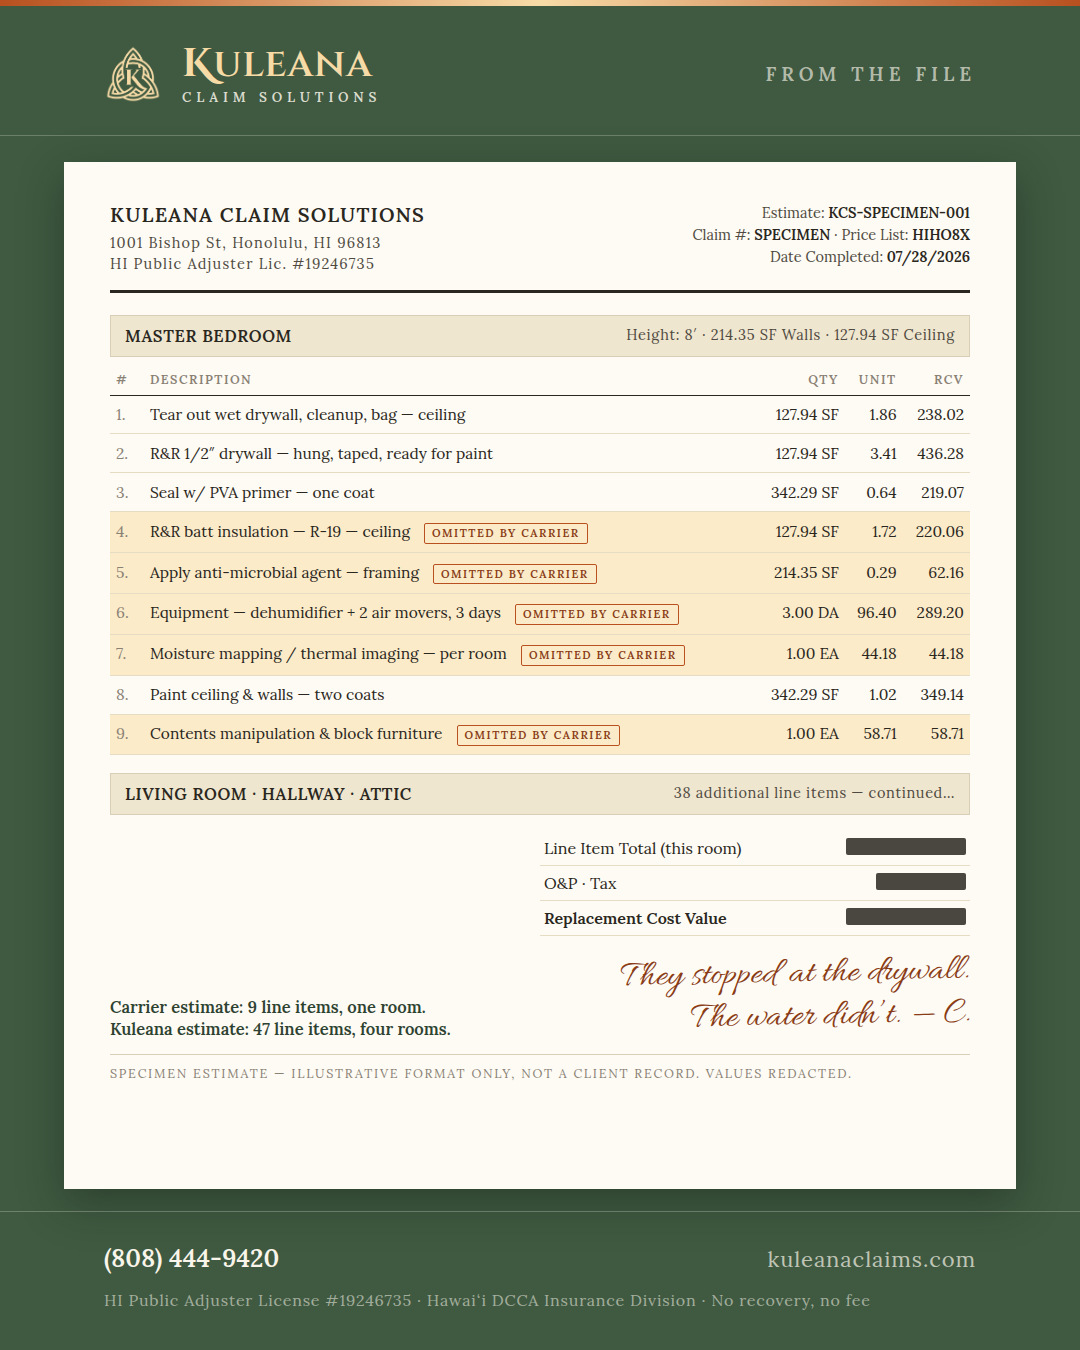
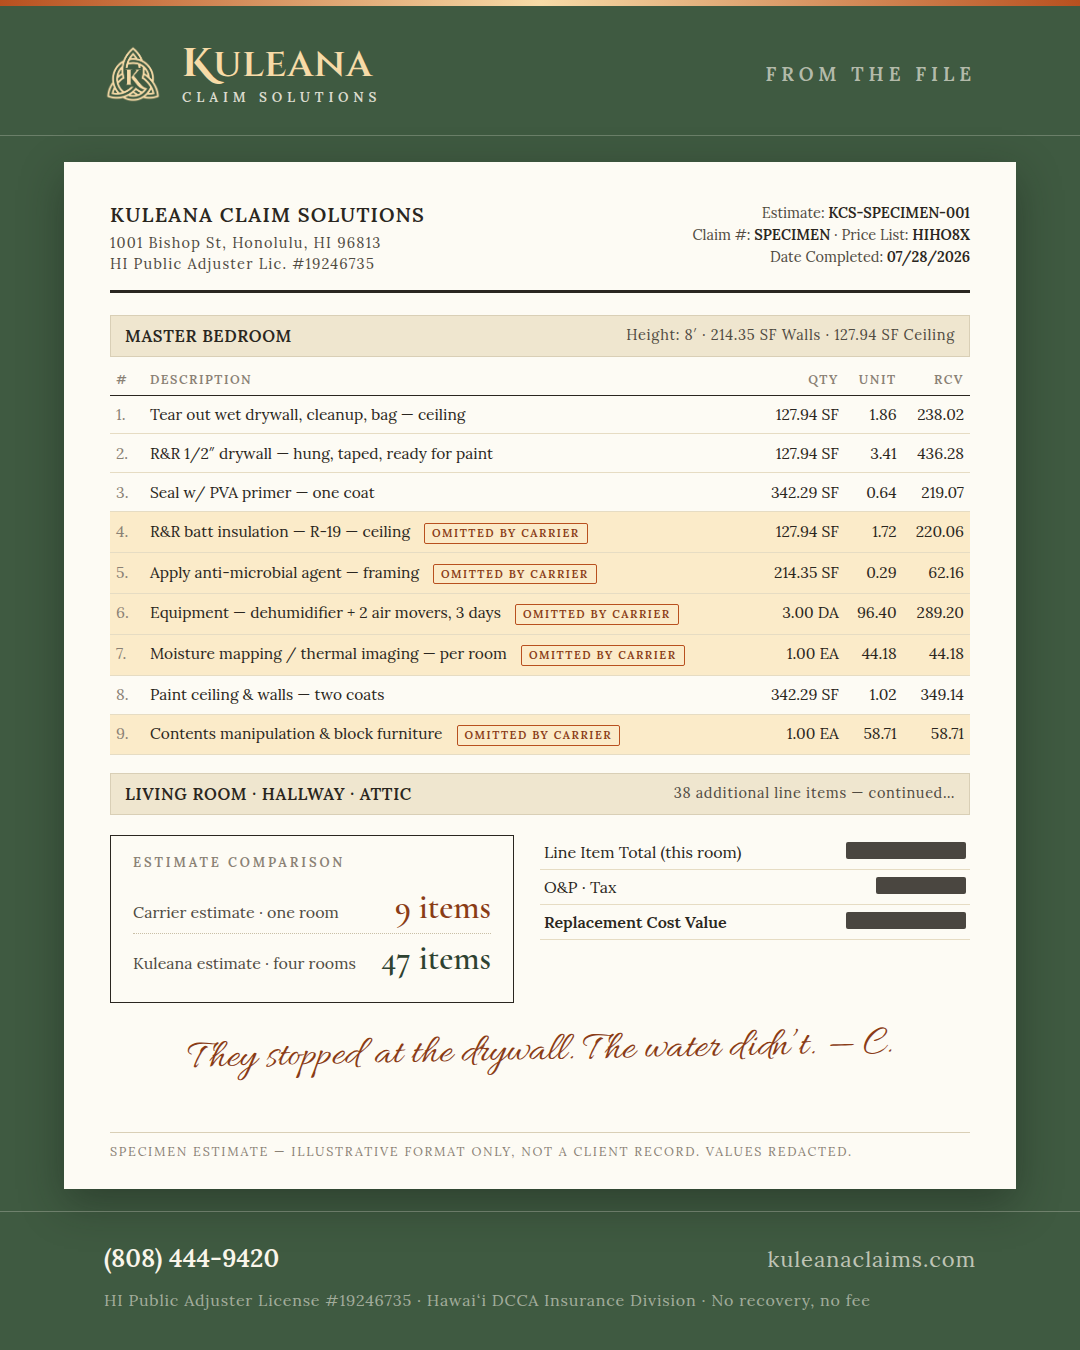
Relayout estimate-post bottom: comparison panel, single-line note, anchored specimen line
Claude-Session: https://claude.ai/code/session_012ermQFeXKetnBLvQfiukPr

diff --git a/instagram/kuleana-instagram-posts.html b/instagram/kuleana-instagram-posts.html
@@ -348,6 +348,17 @@ td .tag { display: inline-block; margin-left: 10px; font-size: 11px; font-weight
 .est-hand { font-family: 'Allura', cursive; font-size: 37px; color: #8A3C16; transform: rotate(-1.2deg); white-space: nowrap; }
 .est-spec { margin-top: 14px; border-top: 1px solid #D9CFB6; padding-top: 10px;
   font-size: 12.5px; letter-spacing: 0.14em; text-transform: uppercase; color: #8A8175; }
+
+.est-bottom { display: flex; gap: 26px; margin-top: 20px; align-items: stretch; }
+.est-compare { flex: 1; border: 1.5px solid #2A2620; padding: 18px 22px; }
+.est-compare h4 { font-size: 13px; letter-spacing: 0.22em; color: #8A8175; font-weight: 700; margin-bottom: 12px; }
+.est-compare .cmp { display: flex; justify-content: space-between; align-items: baseline; padding: 8px 0; }
+.est-compare .cmp + .cmp { border-top: 1px dotted #C9BFA6; }
+.est-compare .cmp span { font-size: 16px; color: #4F4A41; }
+.est-compare .cmp b { font-family: 'Cormorant Garamond', Georgia, serif; font-size: 34px; line-height: 1; }
+.est-compare .cmp.carrier b { color: #8A3C16; }
+.est-compare .cmp.ours b { color: #2E4231; }
+.est-hand-wide { margin-top: 26px; text-align: center; font-family: 'Allura', cursive; white-space: nowrap; font-size: 41px; line-height: 1.1; color: #8A3C16; transform: rotate(-1.2deg); }
 </style>
 </head>
 <body>
@@ -1314,16 +1325,20 @@ POST 30 · Signature — Xactimate-style estimate (v2)
         <tr class="miss"><td class="n">9.</td><td>Contents manipulation &amp; block furniture <span class="tag">OMITTED BY CARRIER</span></td><td class="r">1.00 EA</td><td class="r">58.71</td><td class="r">58.71</td></tr>
       </table>
       <div class="room" style="margin-top: 18px;">LIVING ROOM &middot; HALLWAY &middot; ATTIC <span>38 additional line items &mdash; continued&hellip;</span></div>
-      <div class="est-tot">
-        <div class="trow"><span>Line Item Total (this room)</span><span class="redact"></span></div>
-        <div class="trow"><span>O&amp;P &middot; Tax</span><span class="redact" style="width:90px;"></span></div>
-        <div class="trow"><b>Replacement Cost Value</b><span class="redact"></span></div>
+      <div class="est-bottom">
+        <div class="est-compare">
+          <h4>ESTIMATE COMPARISON</h4>
+          <div class="cmp carrier"><span>Carrier estimate &middot; one room</span><b>9 items</b></div>
+          <div class="cmp ours"><span>Kuleana estimate &middot; four rooms</span><b>47 items</b></div>
+        </div>
+        <div class="est-tot" style="margin-top: 0; width: 430px;">
+          <div class="trow"><span>Line Item Total (this room)</span><span class="redact"></span></div>
+          <div class="trow"><span>O&amp;P &middot; Tax</span><span class="redact" style="width:90px;"></span></div>
+          <div class="trow"><b>Replacement Cost Value</b><span class="redact"></span></div>
+        </div>
       </div>
-      <div class="est-note">
-        <div class="est-summary">Carrier estimate: 9 line items, one room.<br/>Kuleana estimate: 47 line items, four rooms.</div>
-        <div class="est-hand" style="white-space: normal; text-align: right; line-height: 1.15;">They stopped at the drywall.<br/>The water didn&rsquo;t. &mdash; C.</div>
-      </div>
-      <div class="est-spec">Specimen estimate &mdash; illustrative format only, not a client record. Values redacted.</div>
+      <div class="est-hand-wide">They stopped at the drywall. The water didn&rsquo;t. &mdash; C.</div>
+      <div class="est-spec" style="margin-top: auto;">Specimen estimate &mdash; illustrative format only, not a client record. Values redacted.</div>
     </div>
   </div>
   <footer class="foot">
